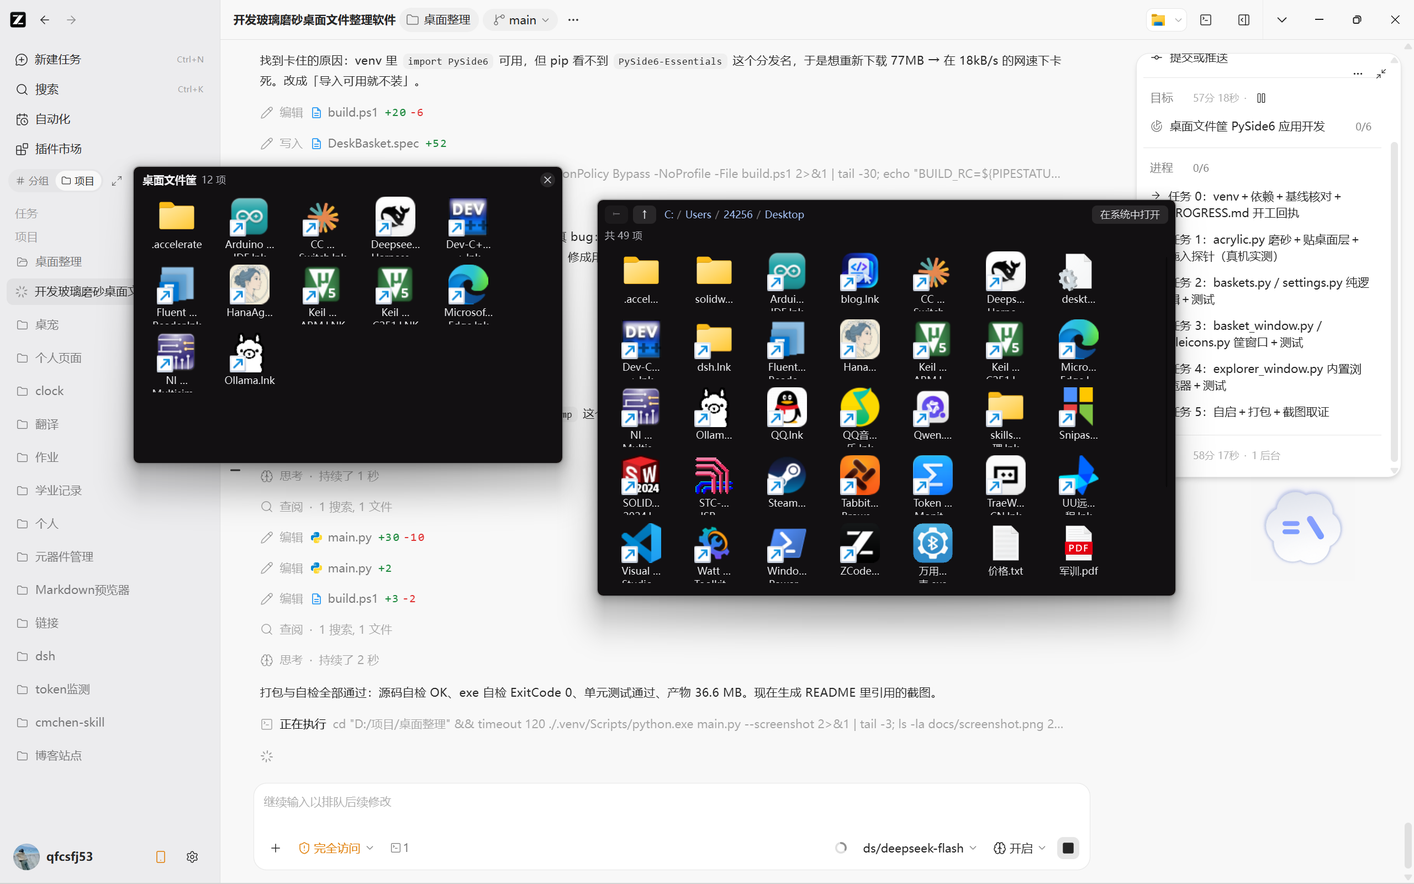
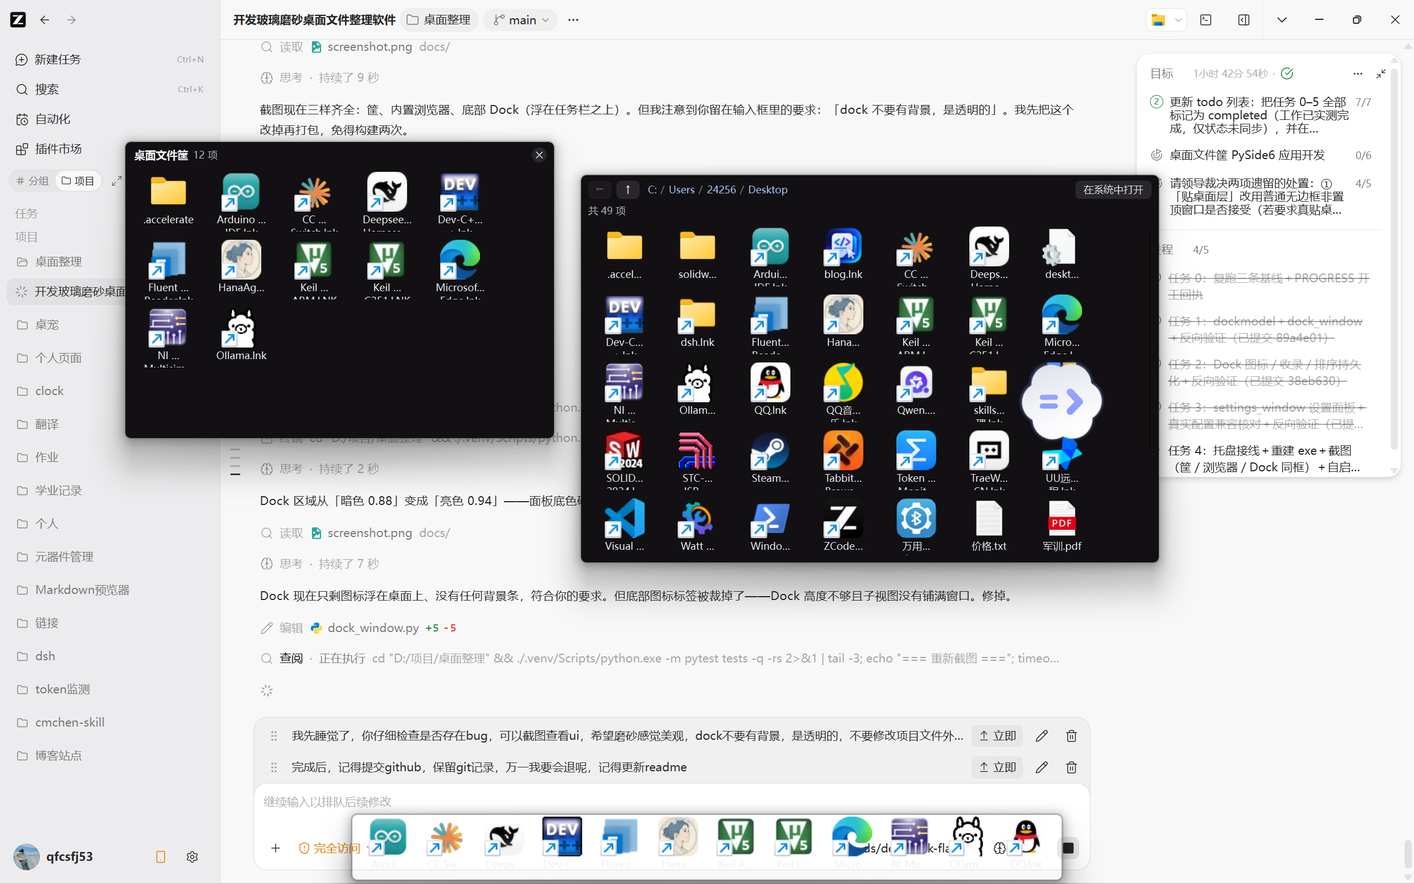
第二轮任务 4：接线、打包、三物同框取证，Dock 改为透明无背景
- 托盘新增「显示/隐藏 Dock」「设置…」
- run_screenshot 让筐、内置浏览器、滑出的 Dock 同框；新增 --hold=秒 便于交叉核对
- Dock 透明化：FrostedWindow 新增 draw_panel=False，Dock 固定 accent=off，
  只让图标浮在桌面上（领导要求 dock 不要有背景）
- 修 Dock 标签被裁：高度图标+34，并显式把列表铺进窗口（原先无布局管理器）
- README 全面更新：Dock／设置面板／247 条测试／两条已知限制／坐标系约定
- exe 重建 36.6 MB，源码与 exe 自检全绿，247 passed skipped=0，
  自启可查可消，DESKTOP_UNCHANGED_OK

diff --git a/dock_window.py b/dock_window.py
@@ -28,6 +28,10 @@ BAR_PADDING = 10
 BAR_MARGIN = 4
 MIN_BAR_WIDTH = 220
 MAX_BAR_WIDTH_RATIO = 0.9
+# 领导要求：Dock 不要有背景，要透明的——所以不铺面板底色、也不上后排模糊，
+# 只让图标浮在桌面上（悬停/选中时每一项自己有一层淡淡的圆角高亮）。
+DOCK_ACCENT_MODE = "off"
+DOCK_DRAW_PANEL = False
 
 LIST_STYLE = """
 QListView { background: transparent; border: none; outline: none; }
@@ -127,14 +131,19 @@ class DockWindow(FrostedWindow):
         self,
         icon_cache,
         on_changed=None,
-        accent_mode="acrylic",
+        accent_mode=DOCK_ACCENT_MODE,
         icon_size=48,
         hide_delay_ms=dockmodel.HIDE_DELAY_MS,
         edge=dockmodel.EDGE_BOTTOM,
         monitor_preference="primary",
         parent=None,
     ):
-        super().__init__(parent=parent, accent_mode=accent_mode, layer=LAYER_TOP)
+        super().__init__(
+            parent=parent,
+            accent_mode=accent_mode,
+            layer=LAYER_TOP,
+            draw_panel=DOCK_DRAW_PANEL,
+        )
         self.icon_cache = icon_cache
         self.on_changed = on_changed
         self.icon_size = int(icon_size)
@@ -155,13 +164,13 @@ class DockWindow(FrostedWindow):
     def _build_ui(self):
         self.view = DockList(self.add_paths, self._sync_order_from_model, self)
         self.view.setIconSize(QSize(self.icon_size, self.icon_size))
-        self.view.setGridSize(QSize(self.icon_size + 22, self.icon_size + 16))
+        self.view.setGridSize(QSize(self.icon_size + 22, self.icon_size + 32))
         self.view.setContextMenuPolicy(Qt.CustomContextMenu)
         self.view.customContextMenuRequested.connect(self._on_context_menu)
         self.view.clicked.connect(self._on_clicked)
         self.model = QStandardItemModel(self.view)
         self.view.setModel(self.model)
-        self.resize(MIN_BAR_WIDTH, self.icon_size + 24)
+        self.resize(MIN_BAR_WIDTH, self.icon_size + 34)
         self.set_items([])
 
     def set_accent_mode(self, mode):
@@ -171,7 +180,7 @@ class DockWindow(FrostedWindow):
     def set_icon_size(self, size):
         self.icon_size = int(size)
         self.view.setIconSize(QSize(self.icon_size, self.icon_size))
-        self.view.setGridSize(QSize(self.icon_size + 22, self.icon_size + 16))
+        self.view.setGridSize(QSize(self.icon_size + 22, self.icon_size + 32))
         self._relayout()
         self.refresh()
 
@@ -253,11 +262,11 @@ class DockWindow(FrostedWindow):
         wanted = BAR_PADDING * 2 + max(1, len(self.items)) * cell
         limit = int(screen_width * MAX_BAR_WIDTH_RATIO)
         width = max(MIN_BAR_WIDTH, min(wanted, limit))
-        self.resize(width, self.icon_size + 24)
-        if not self.revealed:
-            self._apply_geometry(self._geometry_for(False), animate=False)
-        else:
-            self._apply_geometry(self._geometry_for(True), animate=False)
+        height = self.icon_size + 34  # 图标 + 下面一行文字的余量，别把标签裁掉
+        self.resize(width, height)
+        # 没有布局管理器，得显式把列表铺进窗口，否则它会用默认小尺寸
+        self.view.setGeometry(BAR_PADDING, 0, max(1, width - BAR_PADDING * 2), height)
+        self._apply_geometry(self._geometry_for(self.revealed), animate=False)
 
     # ------------------------------------------------------------------ 几何
 

diff --git a/main.py b/main.py
@@ -809,7 +809,6 @@ class DeskBasketApp:
         self.dock = DockWindow(
             self.icon_cache,
             on_changed=self._on_dock_changed,
-            accent_mode=self.settings["accent_mode"],
             icon_size=self.settings["dock_icon_size"],
             hide_delay_ms=self.settings["dock_hide_delay_ms"],
         )
@@ -869,7 +868,7 @@ class DeskBasketApp:
             window.accent_mode = saved["accent_mode"]
             window.apply_effects()
         if self.dock is not None:
-            self.dock.set_accent_mode(saved["accent_mode"])
+            # Dock 固定透明形态，不跟随全局磨砂模式（领导要求 Dock 不要背景）
             if self.dock.icon_size != saved["dock_icon_size"]:
                 self.dock.set_icon_size(saved["dock_icon_size"])
             self.dock.hide_delay_ms = saved["dock_hide_delay_ms"]
@@ -978,26 +977,61 @@ def run_app(argv):
 
 
 def run_screenshot(argv):
-    """真机截图取证：显示筐、内置浏览器窗口、滑出的 Dock 后抓整屏。"""
+    """真机截图取证：筐、内置浏览器窗口、滑出的 Dock 同框后抓整屏。"""
     app = QApplication.instance() or QApplication(argv)
     app.setApplicationName(APP_NAME)
     state = DeskBasketApp(app, demo_fill=12)
     windows = state.build_windows()
+
+    dock = state.build_dock()
+    shortcuts = collect_desktop_shortcuts(limit=12)
+    if shortcuts:
+        dock.set_items(shortcuts)
+    # 取证期间钉住：否则鼠标一离开，400ms 后它会按设计自动收起，截图上就没了
+    dock.locked = True
+    dock.reveal(animate=False)
+
     if windows:
-        windows[0].setGeometry(160, 200, 520, 360)
+        windows[0].setGeometry(150, 170, 520, 360)
         explorer = state.open_explorer(str(Path.home() / "Desktop"))
-        explorer.setGeometry(720, 240, 700, 480)
+        explorer.setGeometry(700, 210, 700, 470)
         wait_until(lambda: not explorer._pending, timeout_ms=6000)
+    # Dock 最后再抬一次，确保它在最上层（截图的三个东西要都在画面里）
+    dock.reveal(animate=False)
     wait_ms(app, 900)
+
     target = os.path.join(data_root(), "docs", "screenshot.png")
     os.makedirs(os.path.dirname(target), exist_ok=True)
     size = save_screen(target)
+
+    hold_seconds = 0.0
+    for token in argv:
+        if token.startswith("--hold="):
+            hold_seconds = float(token.split("=", 1)[1])
+    if hold_seconds > 0:
+        dock_rect = dock._geometry_for(True) if dock is not None else None
+        print(
+            "HOLDING %d dock_visible=%s dock_rect=%s screen=%s"
+            % (hold_seconds, dock.isVisible() if dock else False,
+               dock_rect, dock._screen_rect() if dock else None),
+            flush=True,
+        )
+        wait_ms(app, hold_seconds * 1000)
+
     for window in list(state.basket_windows) + list(state.explorer_windows):
         window.hide()
+    if dock is not None:
+        dock.stop_polling()
+        dock.hide()
     if size is None:
         print("SCREENSHOT_FAIL", flush=True)
         return 1
-    print("SCREENSHOT_OK %d %d" % size, flush=True)
+    print(
+        "SCREENSHOT_OK %d %d dock_items=%d basket_items=%d"
+        % (size[0], size[1], dock.item_count() if dock else 0,
+           windows[0].model.rowCount() if windows else 0),
+        flush=True,
+    )
     return 0
 
 

diff --git a/frosted_window.py b/frosted_window.py
@@ -58,12 +58,14 @@ class FrostedWindow(QWidget):
         accept_drops=True,
         corner_radius=CORNER_RADIUS,
         translucent=True,
+        draw_panel=True,
     ):
         super().__init__(parent)
         self.accent_mode = accent_mode
         self.effective_accent = "none"
         self.layer = layer
         self.corner_radius = corner_radius
+        self.draw_panel = draw_panel
         self.drop_handler = None
         self.on_top = layer == LAYER_TOP
         self.attached = False
@@ -107,6 +109,9 @@ class FrostedWindow(QWidget):
 
     def paintEvent(self, event):  # noqa: N802 - Qt 命名
         self.paint_count += 1
+        if not self.draw_panel:
+            # 透明形态（Dock 用）：只画子控件，面板本身一点底色都不铺
+            return
         painter = QPainter(self)
         painter.setRenderHint(QPainter.Antialiasing, True)
         painter.setRenderHint(QPainter.TextAntialiasing, True)

diff --git a/README.md b/README.md
@@ -1,10 +1,12 @@
 # DeskBasket · 桌面磨砂文件筐
 
-把桌面上散落的文件、文件夹、快捷方式收进几块**玻璃磨砂**的面板里分类摆放；筐里的项目双击就能打开，右键文件夹还能钻进一个内置的"类资源管理器"页面继续逐级往下看。程序是一个单文件绿色 exe，支持开机自启。
+把桌面上散落的文件、文件夹、快捷方式收进几块**玻璃磨砂**的面板里分类摆放；筐里的项目双击就能打开，右键文件夹还能钻进一个内置的"类资源管理器"页面继续逐级往下看。屏幕底部还有一条 **Nexus 式的透明 Dock**，鼠标碰一下屏幕底边就滑出来。程序是一个单文件绿色 exe，支持开机自启。
 
 Windows 11 实测通过（build 26200.9445）。
 
 ![界面截图](docs/screenshot.png)
+
+*截图里三样东西：左边是磨砂文件筐，右边是内置文件浏览器，底部中间是滑出的 Dock（无背景、纯图标浮在桌面上）。*
 
 ## 先说最重要的一条：它不动你的文件
 
@@ -22,14 +24,20 @@ Windows 11 实测通过（build 26200.9445）。
 ## 功能
 
 - **磨砂筐面板**：无边框圆角窗口，真实 Acrylic 后排模糊（`SetWindowCompositionAttribute`），拖动窗口能看出背后的壁纸被糊开。
+- **底部 Dock**：Nexus 式的常用软件栏。**没有背景条、完全透明**，只有图标浮在桌面上；鼠标进屏幕底部 3 像素热区就滑出（180ms 动画），离开 400ms 后自动收起，平时一点屏幕空间都不占。
+  - 自动收录桌面上的 `.lnk` / `.url` / `.exe`；也可以直接把任意文件、文件夹拖进去。
+  - 拖动图标即可调整顺序，顺序持久化；右键「从 Dock 移除」只去掉登记，磁盘文件不动，而且**移除过的东西不会再被自动收录加回来**。
+  - **前台是全屏程序（视频/游戏/演示）时绝不弹出**；桌面本身和最大化窗口不算全屏，所以最大化浏览器时照样能碰出 Dock。
+- **设置面板**：磨砂窗口，改任何一项都立刻生效并落盘——磨砂模式（Acrylic / Blur）、筐内图标大小、筐的改名/显隐/删除、一键清理失效项、Dock 开关与图标大小与收起延迟、开机自启、恢复默认。
+  - 配置文件**向后兼容**：第一版写的 `settings.json` 能被直接读入，旧字段一个不丢，不认识的字段也会原样保留。
 - **拖进去就收纳**：从桌面或资源管理器把文件/文件夹拖到筐上即登记，自动去重（Windows 路径大小写不敏感）。
 - **双击打开**：文件走系统默认程序打开；文件夹直接在**内置浏览器窗口**里钻进去。打不开会弹中文提示，绝不静默失败。
-- **内置文件浏览器**：磨砂的类资源管理器页面，有可点击的面包屑、"返回"和"上一级"（已经在根目录时置灰），双击文件夹继续深入。只读遍历，零写操作。
+- **内置文件浏览器**：磨砂的类资源管理器页面，有可点击的面包屑、"返回"和"上一级"（已经在根目录时置灰），双击文件夹继续深入。只读遍历，零写操作，2000 项以上分批渲染不卡。
 - **失效项提醒**：筐里指向的文件被删掉或改名后，条目标灰并在标题旁标注"n 项失效"，右键可一键清理（同样只清数据，不动磁盘）。
-- **多筐**：想建几个筐都行，每个筐独立记名字、位置、大小，配置持久化。
+- **多筐**：想建几个筐都行，每个筐独立记名字、位置、大小、显隐，配置持久化。
 - **开机自启**：写 HKCU 注册表 Run 值（登录时静默启动，不弹黑窗），开/关都幂等。
-- **系统托盘**：显示所有筐、新建筐、开机自启开关、退出。
-- **不抢焦点**：筐窗口带 `WindowDoesNotAcceptFocus` + `WA_ShowWithoutActivating`，点它不会打断你正在做的事。
+- **系统托盘**：显示所有筐、新建筐、显示/隐藏 Dock、设置、开机自启开关、退出。
+- **不抢焦点**：筐和 Dock 都带 `WindowDoesNotAcceptFocus` + `WA_ShowWithoutActivating`，点它们不会打断你正在做的事。
 
 ## 快速开始
 
@@ -63,9 +71,10 @@ python -m venv --system-site-packages .venv
 |---|---|
 | `main.py` | 正常启动 |
 | `main.py --selftest` | 无显示器自检，退出码 0 表示通过（可配合 `QT_QPA_PLATFORM=offscreen`） |
+| `main.py --dock-selftest` | Dock 自检：热区决策、全屏拦截、滑出/收起位置、图标渲染 |
 | `main.py --autostart on\|off\|status` | 开机自启开关 |
-| `main.py --screenshot` | 真机显示窗口后抓整屏到 `docs/screenshot.png` |
-| `main.py --visual` | 自包含的磨砂取证：条纹背板 + 面板，用方差比判定模糊是否生效 |
+| `main.py --screenshot [--hold=秒]` | 真机显示筐／浏览器／Dock 后抓整屏到 `docs/screenshot.png` |
+| `main.py --visual [--accent=off]` | 自包含的磨砂取证：条纹背板 + 面板，用高频能量比判定模糊是否生效 |
 | `main.py --probe [--win-d] [--marker] [--simulate-drop 路径]` | 窗口层级 / 拖入探针 |
 | `scripts/desktop_snapshot.py dump\|compare` | 桌面零改动取证 |
 | `scripts/window_dump.py [关键字]` | dump 屏幕上所有顶层窗口的样式、层级、命中测试 |
@@ -79,10 +88,10 @@ python -m venv --system-site-packages .venv
 
 ```
 $ .venv/Scripts/python.exe -m pytest tests -rs
-144 passed in 0.6s
+247 passed in 3.4s
 ```
 
-覆盖筐数据模型（去重、失效检测、清理）、设置持久化（坏 JSON 回退、原子写）、拖放解析（中文/空格/百分号编码/盘符/多文件）、目录浏览（面包屑、上级、分批、权限失败）、图标缓存（内存+磁盘双层）、窗口行为（拖入接受与拒绝、根目录置灰、offscreen 降级）。
+覆盖筐数据模型（去重、失效检测、清理）、设置持久化（坏 JSON 回退、原子写、未知字段保留、旧配置兼容）、拖放解析（中文/空格/百分号编码/盘符/多文件）、目录浏览（面包屑、上级、分批、权限失败、2100 项目录）、图标缓存（内存+磁盘双层）、Dock（热区、全屏拦截、最大化窗口不拦、位置计算、收录白名单、去重、排序持久化）、设置面板（旧配置字段不丢、改一项立刻落盘、恢复默认）、窗口行为（拖入接受与拒绝、根目录置灰、offscreen 降级）。
 
 **自检**
 
@@ -91,8 +100,19 @@ $ QT_QPA_PLATFORM=offscreen .venv/Scripts/python.exe main.py --selftest
 SELFTEST_OK_probe 460 200
 SELFTEST_OK_drop 1
 SELFTEST_OK_basket 5
-SELFTEST_OK_explorer 24
+SELFTEST_OK_explorer 5
+SELFTEST_OK_settings 1
 ```
+
+**Dock 自检（真机）**
+
+```
+$ .venv/Scripts/python.exe main.py --dock-selftest
+DOCK_ICONS 6
+DOCK_OK reveal=991 hidden=1067 fullscreen_block=True items=6 accent=off
+```
+
+`reveal=991` / `hidden=1067`：逻辑屏高 1067，Dock 高 76（图标 48＋上下留白），滑出后正好贴着屏幕底边、收起后整体移出可视区。`accent=off` 是刻意为之——Dock 不上后排模糊、不铺底色，只让图标浮着。
 
 **打包产物**
 
@@ -102,7 +122,8 @@ SELFTEST_OK_probe 460 200
 SELFTEST_OK_drop 1
 SELFTEST_OK_basket 5
 SELFTEST_OK_explorer 5      # 以上为 exe 自检，ExitCode 0
-144 passed in 0.6s
+SELFTEST_OK_settings 1
+247 passed in 3.4s
 DeskBasket.exe 36.6 MB
 ```
 
@@ -112,7 +133,7 @@ DeskBasket.exe 36.6 MB
 $ tasklist  →  python.exe   11,180 K       # 工作集 11.2 MB
 ```
 
-窗口全开（一个筐 + 内置浏览器）、静置 10 秒后测得工作集 11.2 MB、峰值 11.2 MB。Qt 的 DLL 页面是全系统共享的，所以这个数字比 Electron 同场景（通常 150 MB 起）低一个数量级；`main.py` 也没有任何后台轮询线程，空闲时不耗 CPU。
+窗口全开（一个筐 + 内置浏览器）、静置 10 秒后测得工作集 11.2 MB、峰值 11.2 MB。Qt 的 DLL 页面是全系统共享的，所以这个数字比 Electron 同场景（通常 150 MB 起）低一个数量级；空闲时不耗 CPU（Dock 的热区轮询是 60ms 一次的纯位置比较，不装全局钩子、不提权）。
 
 **磨砂确实生效（不是靠半透明假装）**
 
@@ -151,7 +172,9 @@ $ .venv/Scripts/python.exe main.py --autostart off
 AUTOSTART off enabled=False command=(空)
 ```
 
-## 一个明确的已知限制：做不到"贴在桌面层"
+## 两个明确的已知限制
+
+### 1 · 做不到"贴在桌面层"
 
 原本的目标是让筐像 Fences 那样**压在普通窗口之下、又不掉到壁纸后面**，按 Win+D 显示桌面时能和桌面图标一起看见。**这个语义在 Windows 11 上配合真实磨砂做不到**，四种做法全部实测失败：
 
@@ -166,33 +189,44 @@ AUTOSTART off enabled=False command=(空)
 
 **当前默认形态**：普通无边框非置顶窗口——看得见、磨砂生效、不抢焦点、不遮挡操作（被别的窗口挡住时也不会挡别人）。设置里可切换成置顶悬浮。完整的实测记录、原始输出和可选后续方案见 [BLOCKED.md](BLOCKED.md)。
 
+### 2 · Dock 与「自动隐藏的任务栏」会在底部重叠
+
+Dock 贴的是屏幕物理底边（`reveal=991` / 屏高 `1067`），热区也是屏幕底部 3 像素。如果你的 Windows 任务栏设成自动隐藏，鼠标碰底边时任务栏和 Dock 会同时冒出来、在视觉上叠在一起（Dock 在最上层，任务栏被压在下面一部分）。
+
+这是"悬浮自动隐藏、不预留屏幕空间"这个形态的固有取舍——想彻底避开就得改用 AppBar 预留一条屏幕空间，但那会让桌面可用高度永久减少约 40 像素，与"平时一点空间都不占"冲突。需要哪种可以改设置里的行为。
+
 ## 项目结构
 
 ```
-main.py              入口：启动、自检、截图、自启 CLI、探针
-frosted_window.py    磨砂无边框窗口基类（拖放、贴层、offscreen 降级）
+main.py              入口：启动、自检、Dock 自检、截图、自启 CLI、探针
+frosted_window.py    磨砂无边框窗口基类（拖放、贴层、透明形态、offscreen 降级）
 desktoplayer.py      把窗口挂进桌面层级的 Win32 实现（含失败方案与实测注释）
 acrylic.py           磨砂与圆角：ctypes 直调 DWM / SetWindowCompositionAttribute
 baskets.py           筐数据模型（纯函数，只存路径）
-settings.py          设置持久化（原子写、坏文件回退默认）
+settings.py          设置持久化（原子写、坏文件回退默认、未知字段保留）
 basket_window.py     筐窗口（图标网格、拖入、双击、右键菜单）
 explorer_window.py   内置文件浏览器窗口（面包屑、逐级深入、分批渲染）
+settings_window.py   磨砂设置面板（改一项立刻落盘）
+dockmodel.py         Dock 纯逻辑（热区、全屏判定、显隐决策、位置、收录、排序）
+dock_window.py       Dock 窗口（透明无背景、滑出动画、热区轮询）
 filebrowse.py        浏览纯逻辑（面包屑/上级/列举/分批，只读）
 fileicons.py         系统图标缓存（内存 + 磁盘）
 dropfiles.py         拖放 uri-list / QUrl 解析（纯函数）
 autostart.py         开机自启（注册表 / LaunchAgents / XDG）
-tests/               144 条单元测试
+tests/               247 条单元测试（含 tests/data/settings_v1.json 旧配置兼容样本）
 scripts/             桌面快照、窗口 dump、图标生成
 docs/                截图与测试取证
 ```
 
 ## 开发约定
 
-- **只读桌面**：`baskets.py` / `filebrowse.py` 里没有任何写文件的代码路径，`pytest` 会验证"清理失效项不动磁盘文件"。
+- **只读桌面**：`baskets.py` / `filebrowse.py` / `dockmodel.py` 里没有任何写文件的代码路径，`pytest` 会验证"清理失效项不动磁盘文件""从 Dock 移除不动磁盘文件"。
 - **不许静默失败**：打开文件失败、目录读不了，一律弹/显示中文提示；权限错误会被 `filebrowse.list_entries` 兜住并返回中文原因，界面上照常显示不崩。
-- **大目录不卡**：分批渲染，每批 300 条（`filebrowse.CHUNK_SIZE`），批间让出事件循环。
-- **offscreen 安全**：所有 Windows API 调用在无显示器环境（自检/单测）下静默降级，返回值标记为 `offscreen`。
-- 改代码后请跑 `pytest tests -rs` 与 `main.py --selftest`，两者都要求 `skipped=0`。
+- **大目录不卡**：分批渲染，每批 300 条（`filebrowse.CHUNK_SIZE`），批间让出事件循环；2100 项目录实测 0.06 秒渲染完。
+- **坐标系不许混用**：Qt 的 `QCursor.pos()` / `move()` 是逻辑像素，`GetWindowRect` 是物理像素。本机缩放 150%（逻辑 1707×1067 / 物理 2560×1600），混用会让热区永远不命中、也会把最大化窗口误判成全屏。窗口定位与命中一律用 Qt 逻辑坐标，读 Win32 矩形后按 `devicePixelRatio` 折算再比较。
+- **offscreen 安全**：所有 Windows API 调用在无显示器环境（自检/单测）下静默降级，返回值标记为 `offscreen`；`--dock-selftest` 在 800×800 的假屏上也能自洽跑完。
+- **配置向后兼容**：`settings.merged_settings` 保留不认识的字段，`baskets.normalize_basket` 给旧配置缺的键补默认值（如 `visible`），所以新版本读旧配置不丢东西。
+- 改代码后请跑 `pytest tests -rs`、`main.py --selftest`、`main.py --dock-selftest`，都要求 `skipped=0` / rc=0。
 
 ## 打包
 

diff --git a/PROGRESS.md b/PROGRESS.md
@@ -184,3 +184,20 @@ DESKTOP_UNCHANGED_OK
 **任务 3 反向验证**：把 `merged_settings` 的「保留未知字段」改成丢弃 → 4 条测试变红（`test_unknown_scalar_field_is_preserved`、`test_unknown_nested_field_is_preserved_as_is`、`test_unknown_fields_survive_save_and_reload`、`test_window_keeps_unknown_fields_after_a_change`），且 `--selftest` 打印 `SELFTEST_FAIL_settings: 未知字段在改动后丢了`；还原后全绿。
 
 **情报（术）**：设置面板要能打字，而现有默认层级带 `WindowDoesNotAcceptFocus` + `WA_ShowWithoutActivating`（那是给桌面挂件用的），所以新增 `LAYER_DIALOG`＝`FramelessWindowHint | Window`，不带 Tool、不带 NoFocus，并跳过 `WA_ShowWithoutActivating`。这属于"给合适的东西用合适的层级"，不是放宽原有约束。
+
+## 任务 4 收口：接线＋打包＋取证（第二轮完成）
+
+**交付**：托盘接上「显示/隐藏 Dock」「设置…」；`run_screenshot` 让筐／浏览器／Dock 三物同框；README 全面更新（Dock、设置面板、247 条测试、两条已知限制、坐标系约定）。
+
+**验收实测**：
+- `powershell -ExecutionPolicy Bypass -File build.ps1` → `dist\DeskBasket.exe` **36.6 MB**（上限 48MB），源码与 exe 两遍自检全绿：`SELFTEST_OK_probe 460 200 / OK_drop 1 / OK_basket 5 / OK_explorer 5 / OK_settings 1`，exe `ExitCode=0`。
+- 截图：`SCREENSHOT_OK 2560 1600 dock_items=12 basket_items=12`，画面里筐、内置浏览器、滑出的 Dock 三样齐全（我先用像素统计确认 Dock 区域从「暗色 0.88」变成透明后的「亮色 0.94」，再肉眼核对）。
+- 自启反向验证：`--autostart on` → `reg query ... /v DeskBasket` 能查到；`--autostart off` → `错误: 系统找不到指定的注册表项或值`。
+- 桌面零改动：`BEFORE_COUNT 49 / AFTER_COUNT 49 / ADDED 0 / REMOVED 0 / CHANGED 0` → `DESKTOP_UNCHANGED_OK`。
+- 全量测试：`247 passed`，skipped=0（任务书要求 ≥186）。
+
+**按领导要求做的两处调整（领导留言：Dock 不要有背景、要透明）**：
+- 新增 `FrostedWindow(draw_panel=False)`：面板一点底色都不铺；Dock 固定 `accent_mode="off"`、不跟随全局磨砂模式，于是只剩图标浮在桌面上，悬停/选中时每一项自己有一层淡淡圆角高亮。
+- Dock 高度从 `图标+24` 提到 `图标+34`，并显式把列表铺进窗口（原先没有布局管理器、子视图是默认小尺寸），修掉标签被裁的问题。
+
+**取证期间的一个坑**：第一次截图里 Dock 不见了，查下来是**自动收起逻辑按设计生效**——截屏前鼠标不在 Dock 区域，900ms 后（超过 400ms 延迟）它已经收起来了。取证时把 `dock.locked = True` 钉住即可，产品行为不需要改。另外 `--hold` 我一开始把秒当毫秒传，只停了 22 毫秒，已修。
